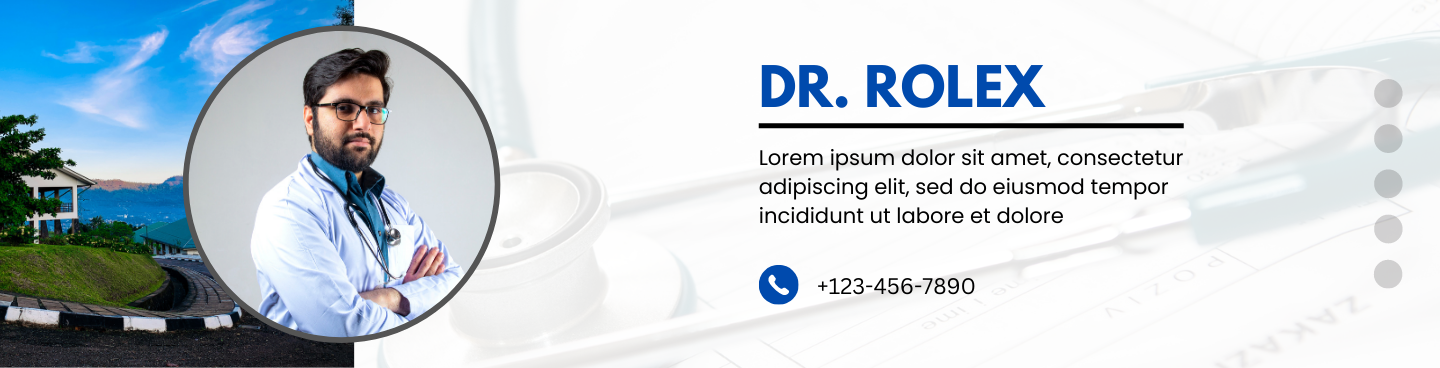
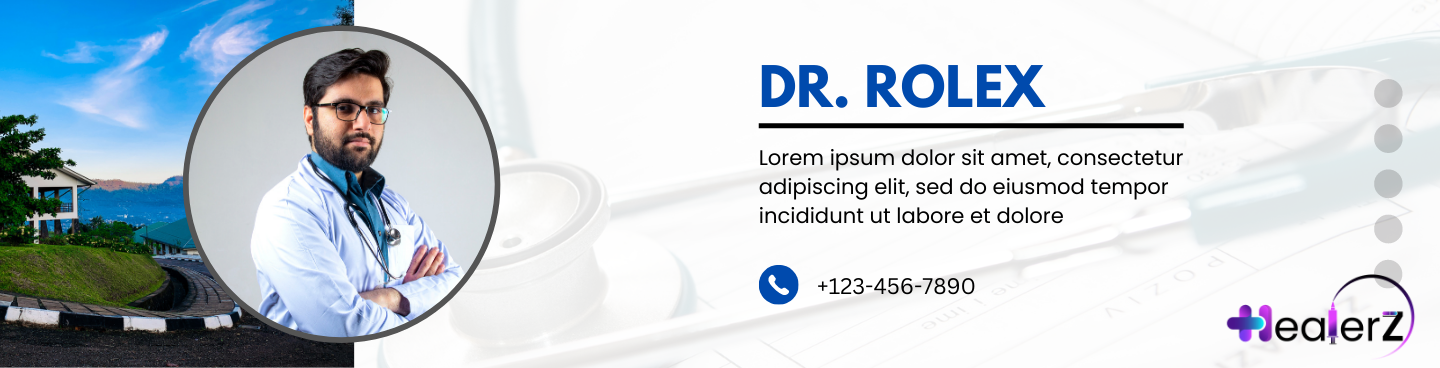
slider image change

Changed region(s): [[0.8438, 0.7772, 1.0, 0.9565], [0.9375, 0.7473, 0.9688, 0.7772]]

diff --git a/src/components/home/Carousel.js b/src/components/home/Carousel.js
@@ -2,6 +2,7 @@ import React from 'react';
 import logo from '../../assets/logo.png';
 import slider1 from '../../assets/slider1.png';
 import slider2 from '../../assets/slider2.png';
+import slider3 from '../../assets/slider3.png';
 
 
 
@@ -24,7 +25,7 @@ const Carousel = () => {
         
       </div>
       <div className="carousel-item active">
-      <img src={slider1} alt="HealerZ"  width="100%" />
+      <img src={slider3} alt="HealerZ"  width="100%" />
        
       </div>
     </div>
